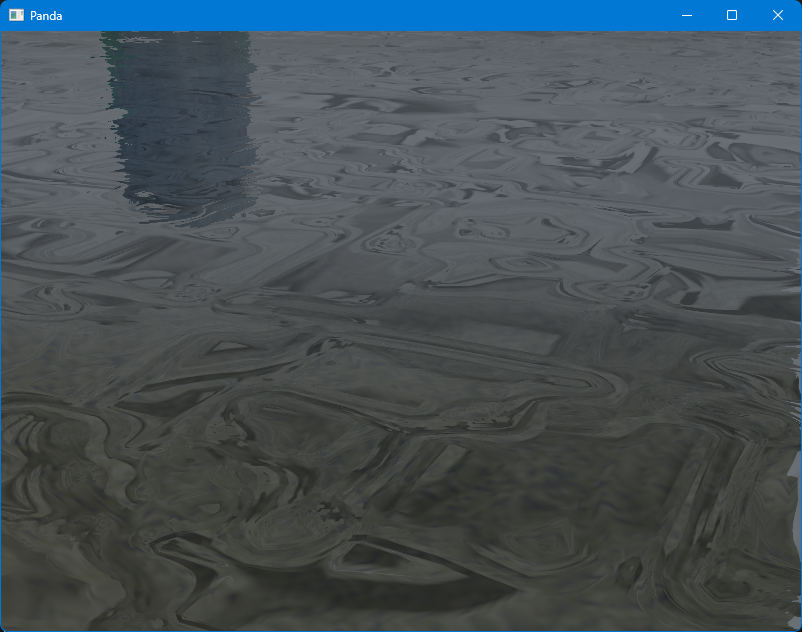
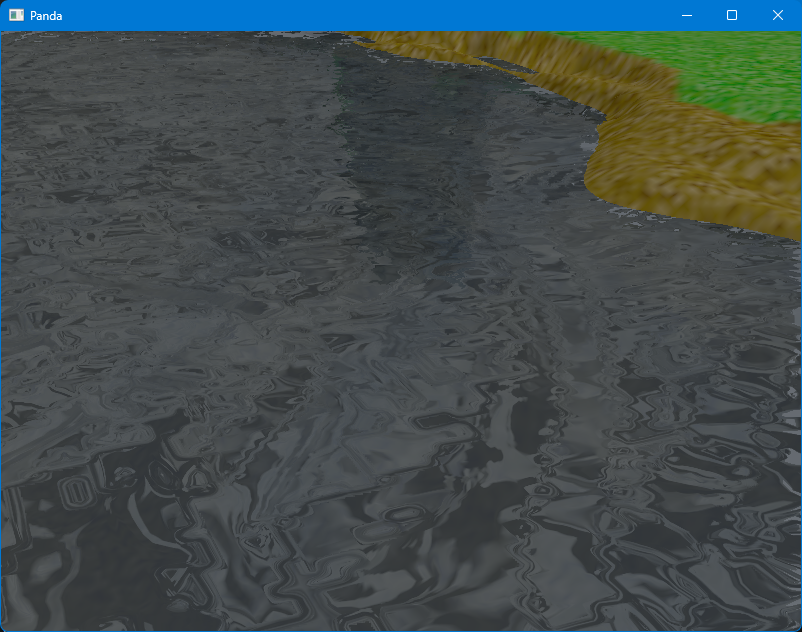
Switch to GeoMipTerrain for PBR terrain lesson 8.

diff --git a/pbr/terrain/08-fresnel/main.py b/pbr/terrain/08-fresnel/main.py
@@ -2,7 +2,9 @@ from direct.showbase.ShowBase import ShowBase
 from panda3d.core import (
     AmbientLight,
     DirectionalLight,
+    GeoMipTerrain,
     load_prc_file,
+    Material,
     SamplerState,
     Shader,
     TextureStage,
@@ -40,6 +42,14 @@ class TerrainDemo(ShowBase):
         self.sun.set_hpr(45, -45, 0)
         self.render.set_light(self.sun)
 
+        # Create materials
+        terrain_mat = Material("Terrain")
+        terrain_mat.set_base_color(Vec4(0, .5, 0, 1))
+        terrain_mat.set_metallic(0)
+        terrain_mat.set_emission(Vec4(0, 0, 0, 1))
+        terrain_mat.set_roughness(.8)
+        terrain_mat.set_refractive_index(1.5)
+
         # Load textures
         self.grass_tex = self.loader.load_texture("images/Grass.png")
         self.grass_tex.minfilter = SamplerState.FT_linear_mipmap_linear
@@ -62,30 +72,35 @@ class TerrainDemo(ShowBase):
         self.color_mask_tex.magfilter = SamplerState.FT_linear_mipmap_linear
 
         # Load terrain
-        self.terrain = self.loader.load_model("meshes/Terrain.gltf")
-        self.terrain.set_scale(256, 256, 256)
-        self.terrain.set_pos(0, 261, 0)
+        self.terrain = GeoMipTerrain("Terrain")
+        self.terrain.set_heightfield("images/Heightmap.png")
+        self.terrain.set_block_size(32)
+        self.terrain.set_focal_point(self.camera)
 
-        self.terrain.set_shader(self.terrain_shader)
-        self.terrain.set_shader_input("texScale0", Vec2(.1, .1))
-        self.terrain.set_shader_input("texScale1", Vec2(.1, .1))
-        self.terrain.set_shader_input("texScale2", Vec2(.1, .1))
-        self.terrain.set_shader_input("texScale3", Vec2(.1, .1))
+        self.terrain.get_root().set_sz(128)
+        self.terrain.get_root().set_pos(-256, 0, -64)
+        self.terrain.get_root().set_material(terrain_mat)
+
+        self.terrain.get_root().set_shader(self.terrain_shader)
+        self.terrain.get_root().set_shader_input("texScale0", Vec2(.1, .1))
+        self.terrain.get_root().set_shader_input("texScale1", Vec2(.1, .1))
+        self.terrain.get_root().set_shader_input("texScale2", Vec2(.1, .1))
+        self.terrain.get_root().set_shader_input("texScale3", Vec2(.1, .1))
 
         stage0 = TextureStage("Grass")
-        stage0.set_texcoord_name("0")
         stage1 = TextureStage("Dirt")
         stage2 = TextureStage("Rock")
         stage3 = TextureStage("Blank")
         stage4 = TextureStage("ColorMask")
 
-        self.terrain.set_texture(stage0, self.grass_tex)
-        self.terrain.set_texture(stage1, self.dirt_tex)
-        self.terrain.set_texture(stage2, self.rock_tex)
-        self.terrain.set_texture(stage3, self.blank_tex)
-        self.terrain.set_texture(stage4, self.color_mask_tex)
+        self.terrain.get_root().set_texture(stage0, self.grass_tex)
+        self.terrain.get_root().set_texture(stage1, self.dirt_tex)
+        self.terrain.get_root().set_texture(stage2, self.rock_tex)
+        self.terrain.get_root().set_texture(stage3, self.blank_tex)
+        self.terrain.get_root().set_texture(stage4, self.color_mask_tex)
 
-        self.terrain.reparent_to(self.render)
+        self.terrain.generate()
+        self.terrain.get_root().reparent_to(self.render)
 
         # Load water plane
         self.water = WaterPlane(
@@ -93,10 +108,18 @@ class TerrainDemo(ShowBase):
             scale=Vec3(256, 256, 1)
         )
 
+        # Add update task
+        self.task_mgr.add(self.update, "update")
+
         # Configure buffer viewer
         self.bufferViewer.setPosition("ulcorner")
         self.bufferViewer.setCardSize(.5, 0)
         self.accept("v", self.bufferViewer.toggleEnable)
+
+    def update(self, task):
+        # Update terrain
+        self.terrain.update()
+        return task.cont
 
 
 # Entry Point
